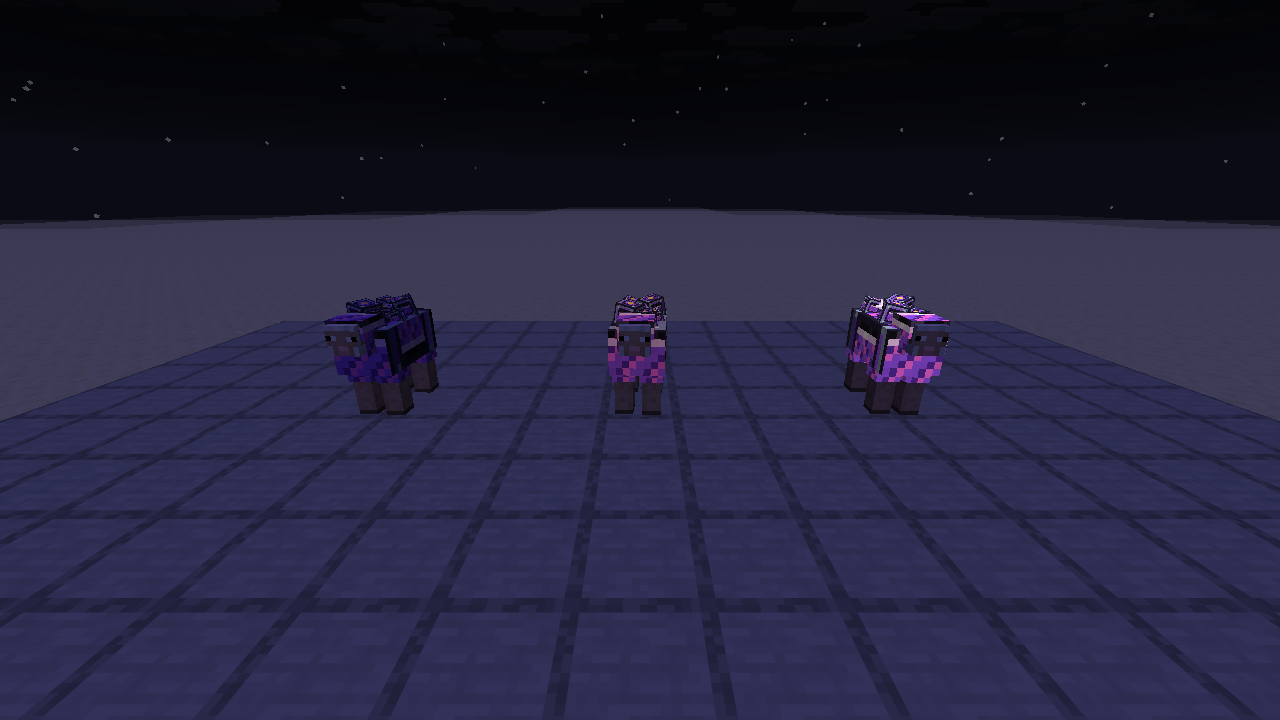
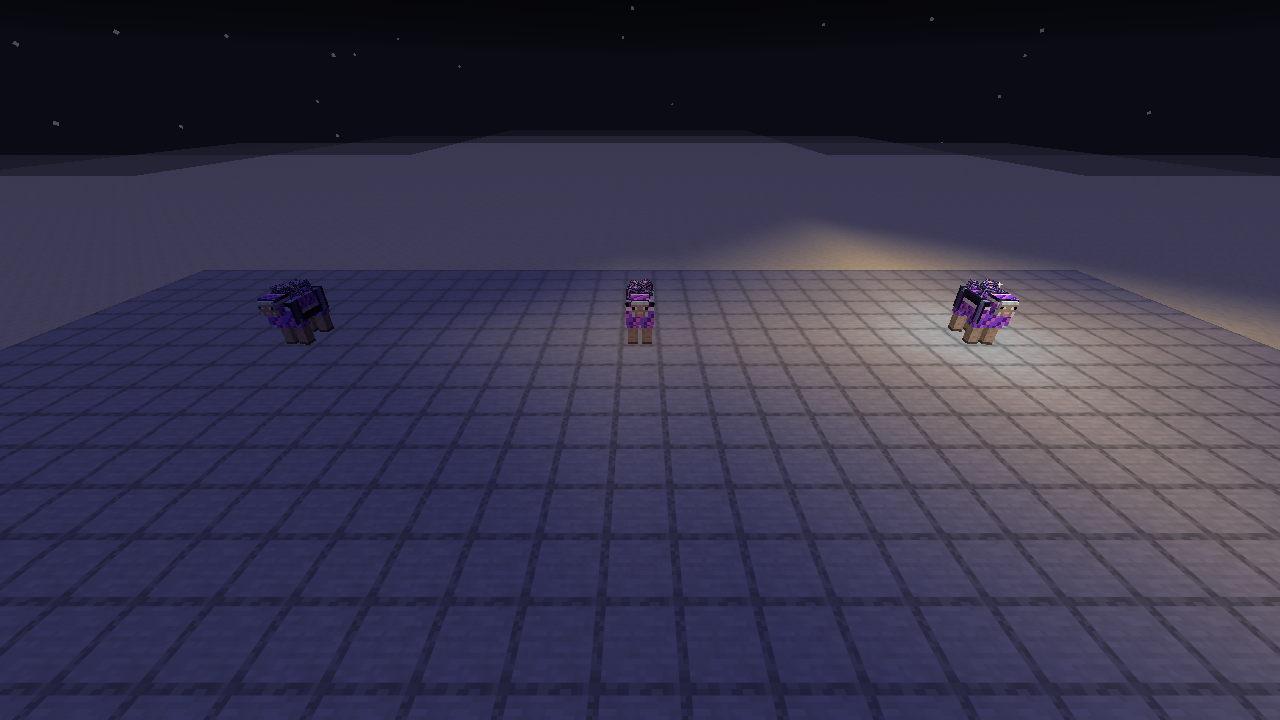
Energy sheep: lights its surroundings like a Glow Ink sheep, as bright as its charge
The invisible sheep glow block gains a level (1-15; the Glow Ink sheep's stays 12). An Energy sheep places one at a
level that follows its charge (15 full, none empty) and updates it as the charge changes; the fleece is still drawn as
brightly. A GameTest checks 15 full, 8 half, none empty. Night scene and docs.

Claude-Session: https://claude.ai/code/session_012iurxobutw9xMP3SqHHLFE

diff --git a/src/main/java/com/jax3/barelyfunctionalcontraptions/sheep/gametest/ModGameTests.java b/src/main/java/com/jax3/barelyfunctionalcontraptions/sheep/gametest/ModGameTests.java
@@ -184,6 +184,7 @@ public final class ModGameTests {
         ECHO_TESTS.put("explosive_sheep_regrow_their_wool_quickly", ModGameTests::explosiveRegrows);
         ECHO_TESTS.put("energy_sheep_drains_cubes_and_charges_machines", ModGameTests::energySheepCharges);
         ECHO_TESTS.put("energy_sheep_does_nothing_sheared", ModGameTests::energySheepSheared);
+        ECHO_TESTS.put("energy_sheep_glows_with_its_charge", ModGameTests::energySheepGlows);
         ECHO_TESTS.put("echo_chamber_power_follows_the_noise", ModGameTests::echoPower);
         ECHO_TESTS.put("echo_chamber_hears_vibrations_but_not_through_wool", ModGameTests::echoHearing);
         ECHO_TESTS.put("echo_chamber_pushes_power_out_of_its_port", ModGameTests::echoPort);
@@ -3266,6 +3267,27 @@ public final class ModGameTests {
             h.assertTrue(near.getEnergyHandler().getAmountAsLong() > 0, "it charged the furnace 5 blocks away");
             h.assertTrue(far.getEnergyHandler().getAmountAsLong() == 0, "not the one 12 blocks away");
             h.assertTrue(other.storage().getAmountAsLong() == 0, "and it never charges a cube");
+        });
+    }
+
+    /** Like a Glow Ink sheep it lights the block it stands in, as brightly as its charge: 15 full, 8 half, none empty. */
+    private static void energySheepGlows(GameTestHelper h) {
+        for (BlockPos p : BlockPos.betweenClosed(new BlockPos(0, 1, 0), new BlockPos(12, 1, 4))) h.setBlock(p, Blocks.STONE);
+        int capacity = com.jax3.barelyfunctionalcontraptions.sheep.entity.EnergySheep.capacity();
+        int[][] cases = {{2, capacity, 15}, {6, capacity / 2, 8}, {10, 0, 0}};
+        for (int[] c : cases) {
+            Sheep sheep = sheepAt(h, new BlockPos(c[0], 2, 2), ResourcefulSheep.id("energy"));
+            com.jax3.barelyfunctionalcontraptions.sheep.entity.EnergySheep.setCharge(sheep, c[1]);
+        }
+        h.succeedWhen(() -> {
+            for (int[] c : cases) {
+                // The light it places in its own block (its neighbours' light spills over, so not the block's brightness).
+                var state = h.getBlockState(new BlockPos(c[0], 2, 2));
+                int level = state.is(ModBlocks.SHEEP_GLOW.get()) ? state.getValue(com.jax3.barelyfunctionalcontraptions.sheep.blocks.SheepGlowBlock.LEVEL) : 0;
+                h.assertTrue(level == c[2], "an Energy sheep holding " + c[1] + " FE lights its block at " + c[2] + ", got " + level);
+            }
+            // And it really is light: the full one's block is at 15.
+            h.assertTrue(h.getLevel().getBrightness(net.minecraft.world.level.LightLayer.BLOCK, h.absolutePos(new BlockPos(2, 2, 2))) == 15, "the full one's block is lit at 15");
         });
     }
 

diff --git a/src/main/java/com/jax3/barelyfunctionalcontraptions/sheep/blocks/SheepGlowBlock.java b/src/main/java/com/jax3/barelyfunctionalcontraptions/sheep/blocks/SheepGlowBlock.java
@@ -17,7 +17,9 @@ import net.minecraft.world.phys.shapes.Shapes;
 import net.minecraft.world.phys.shapes.VoxelShape;
 
 /**
- * The invisible light a glowing sheep leaves in the block it stands in (see {@link SheepAppearance.Feature#GLOWING}).
+ * The invisible light a glowing sheep leaves in the block it stands in (see {@link SheepAppearance.Feature#GLOWING}),
+ * at {@link #LIGHT_LEVEL}; and the light an Energy sheep ({@link SheepAppearance.Feature#CHARGED}) gives off, at a
+ * {@link #LEVEL} that follows its charge.
  *
  * <p>It can't be seen, touched or targeted, drops nothing and is replaced by anything placed there. It checks itself
  * every {@link #CHECK_TICKS} ticks and turns back into air as soon as no glowing sheep is standing in it, so it never
@@ -26,9 +28,23 @@ import net.minecraft.world.phys.shapes.VoxelShape;
 public class SheepGlowBlock extends Block {
     public static final int LIGHT_LEVEL = 12;
     public static final int CHECK_TICKS = 10;
+    /** How bright it is. */
+    public static final net.minecraft.world.level.block.state.properties.IntegerProperty LEVEL =
+            net.minecraft.world.level.block.state.properties.IntegerProperty.create("level", 1, 15);
 
     public SheepGlowBlock(Properties properties) {
         super(properties);
+        registerDefaultState(stateDefinition.any().setValue(LEVEL, LIGHT_LEVEL));
+    }
+
+    @Override
+    protected void createBlockStateDefinition(net.minecraft.world.level.block.state.StateDefinition.Builder<Block, BlockState> builder) {
+        builder.add(LEVEL);
+    }
+
+    /** The light for a sheep at {@code level}. */
+    public BlockState at(int level) {
+        return defaultBlockState().setValue(LEVEL, Math.max(1, Math.min(15, level)));
     }
 
     @Override
@@ -39,7 +55,9 @@ public class SheepGlowBlock extends Block {
     @Override
     protected void tick(BlockState state, ServerLevel level, BlockPos pos, RandomSource random) {
         boolean lit = !level.getEntitiesOfClass(Sheep.class, new AABB(pos),
-                sheep -> sheep.blockPosition().equals(pos) && SheepFeatureEvents.has(sheep, SheepAppearance.Feature.GLOWING)).isEmpty();
+                sheep -> sheep.blockPosition().equals(pos) && (SheepFeatureEvents.has(sheep, SheepAppearance.Feature.GLOWING)
+                        || (SheepFeatureEvents.has(sheep, SheepAppearance.Feature.CHARGED)
+                                && com.jax3.barelyfunctionalcontraptions.sheep.entity.EnergySheep.charge(sheep) > 0))).isEmpty();
         if (lit) level.scheduleTick(pos, this, CHECK_TICKS);
         else level.setBlock(pos, Blocks.AIR.defaultBlockState(), Block.UPDATE_ALL);
     }

diff --git a/src/main/java/com/jax3/barelyfunctionalcontraptions/sheep/client/DevScreenshotHarness.java b/src/main/java/com/jax3/barelyfunctionalcontraptions/sheep/client/DevScreenshotHarness.java
@@ -2346,15 +2346,15 @@ public final class DevScreenshotHarness {
                 for (String c : new String[]{"time set midnight", "weather clear", "gamerule send_command_feedback false", "gamemode spectator @a"}) {
                     server.getCommands().performPrefixedCommand(server.createCommandSourceStack(), c);
                 }
-                for (BlockPos p : BlockPos.betweenClosed(origin.offset(-8, 0, -10), origin.offset(8, 4, 2))) level.setBlock(p, Blocks.AIR.defaultBlockState(), 2);
-                for (BlockPos p : BlockPos.betweenClosed(origin.offset(-8, -1, -10), origin.offset(8, -1, 2))) level.setBlock(p, Blocks.SMOOTH_STONE.defaultBlockState(), 2);
+                for (BlockPos p : BlockPos.betweenClosed(origin.offset(-16, 0, -14), origin.offset(16, 4, 2))) level.setBlock(p, Blocks.AIR.defaultBlockState(), 2);
+                for (BlockPos p : BlockPos.betweenClosed(origin.offset(-16, -1, -14), origin.offset(16, -1, 2))) level.setBlock(p, Blocks.SMOOTH_STONE.defaultBlockState(), 2);
                 var energy = ResourcefulSheep.id("energy");
                 int uses = com.jax3.barelyfunctionalcontraptions.sheep.resource.SheepResourceRegistry.server().byId(energy).orElseThrow().effectiveInfusionUses();
                 int capacity = com.jax3.barelyfunctionalcontraptions.sheep.entity.EnergySheep.capacity();
                 float[] charges = {0F, 0.5F, 1F};
                 for (int i = 0; i < 3; i++) {
                     var sheep = Vanilla.SHEEP.create(level, net.minecraft.world.entity.EntitySpawnReason.COMMAND);
-                    sheep.snapTo(origin.getX() - 3.0 + i * 3.5, origin.getY(), origin.getZ() - 5.5, 90, 0);
+                    sheep.snapTo(origin.getX() - 8.5 + i * 9.0, origin.getY(), origin.getZ() - 8.5, 90, 0);
                     sheep.setNoAi(true);
                     level.addFreshEntity(sheep);
                     com.jax3.barelyfunctionalcontraptions.sheep.entity.SheepInfusionEvents.setInfusion(sheep,
@@ -2363,7 +2363,7 @@ public final class DevScreenshotHarness {
                 }
             });
             case 62 -> setHudHidden(mc, true);
-            case 64 -> command(server, String.format(java.util.Locale.ROOT, "tp @a %.1f %.1f %.1f 180 20", origin.getX() + 0.5, origin.getY() + 1.2, origin.getZ() + 0.5));
+            case 64 -> command(server, String.format(java.util.Locale.ROOT, "tp @a %.1f %.1f %.1f 180 30", origin.getX() + 0.5, origin.getY() + 4.0, origin.getZ() + 2.5));
             case 110 -> shot(mc, "118_energy_sheep_glow");
             case 114 -> mc.stop();
             default -> {}

diff --git a/src/main/java/com/jax3/barelyfunctionalcontraptions/sheep/entity/SheepFeatureEvents.java b/src/main/java/com/jax3/barelyfunctionalcontraptions/sheep/entity/SheepFeatureEvents.java
@@ -92,6 +92,11 @@ public final class SheepFeatureEvents {
         Level level = sheep.level();
         if (!level.isClientSide()) {
             if (appearance.get().has(Feature.GLOWING)) placeGlow(level, sheep.blockPosition());
+            // An Energy sheep lights its surroundings as brightly as its charge: 15 full, fading to nothing empty.
+            if (appearance.get().has(Feature.CHARGED)) {
+                int charge = EnergySheep.charge(sheep), capacity = EnergySheep.capacity();
+                if (charge > 0 && capacity > 0) placeGlow(level, sheep.blockPosition(), (int) Math.ceil(15.0 * charge / capacity));
+            }
             // Gills: it never runs out of air.
             if (appearance.get().has(Feature.FINS)) sheep.setAirSupply(sheep.getMaxAirSupply());
             return;
@@ -115,9 +120,17 @@ public final class SheepFeatureEvents {
 
     /** Lights the block the sheep stands in, unless something other than air (or an older glow) is there. */
     public static void placeGlow(Level level, BlockPos pos) {
+        placeGlow(level, pos, com.jax3.barelyfunctionalcontraptions.sheep.blocks.SheepGlowBlock.LIGHT_LEVEL);
+    }
+
+    /** As {@link #placeGlow(Level, BlockPos)}, at light {@code brightness} (1-15); a glow already there is set to it. */
+    public static void placeGlow(Level level, BlockPos pos, int brightness) {
         BlockState there = level.getBlockState(pos);
-        if (there.isAir() && level.getFluidState(pos).isEmpty()) {
-            level.setBlock(pos, ModBlocks.SHEEP_GLOW.get().defaultBlockState(), net.minecraft.world.level.block.Block.UPDATE_ALL);
+        BlockState glow = ModBlocks.SHEEP_GLOW.get().at(brightness);
+        if (there.is(ModBlocks.SHEEP_GLOW.get())) {
+            if (there != glow) level.setBlock(pos, glow, net.minecraft.world.level.block.Block.UPDATE_ALL);
+        } else if (there.isAir() && level.getFluidState(pos).isEmpty()) {
+            level.setBlock(pos, glow, net.minecraft.world.level.block.Block.UPDATE_ALL);
         }
     }
 

diff --git a/src/main/java/com/jax3/barelyfunctionalcontraptions/sheep/registry/ModBlocks.java b/src/main/java/com/jax3/barelyfunctionalcontraptions/sheep/registry/ModBlocks.java
@@ -292,7 +292,7 @@ public final class ModBlocks {
                     .instabreak()
                     .pushReaction(com.jax3.barelyfunctionalcontraptions.compat.Mc.PUSH_BREAKS)
                     .mapColor(MapColor.NONE)
-                    .lightLevel(state -> com.jax3.barelyfunctionalcontraptions.sheep.blocks.SheepGlowBlock.LIGHT_LEVEL));
+                    .lightLevel(state -> state.getValue(com.jax3.barelyfunctionalcontraptions.sheep.blocks.SheepGlowBlock.LEVEL)));
 
     private ModBlocks() {}
 }

diff --git a/docs/REFERENCE.md b/docs/REFERENCE.md
@@ -801,14 +801,14 @@ A themed sheep infused with a **Hume Energy Cube** (2 Lightning Rods round it at
 - **Drains:** every half second it draws up to **2,000 FE a tick** (`drainPerTick`) from the Hume Energy Cubes within **3 blocks** of it (`drainRadius`) into its fleece, which holds **100,000 FE** (`capacity`).
 - **Charges:** it shares up to **2,000 FE a tick** (`chargePerTick`) between everything within **8 blocks** (`chargeRadius`): every block that takes FE (machines, generators' buffers; not Hume Energy Cubes or cables) and every powered item (tools, armour, anything that holds FE) in nearby players' inventories. Each gets a fair share, and sparks arc to what it charges.
 - Only a grown sheep with its fleece on does either; sheared, it keeps its charge until its wool grows back.
-- **It glows with its charge:** its fleece is lit as brightly as the charge it holds, from as dark as its surroundings when empty to full bright when full, and it sparks more often the fuller it is.
+- **It glows with its charge:** like a Glow Ink sheep it lights the block it stands in, at a light level that follows its charge (15 when full, fading as it empties, none when empty), and its fleece is drawn as brightly. It sparks more often the fuller it is.
 - **Jade** shows its charge. Its wool separates into Redstone and Copper, with a chance of Glowstone. **Advancement:** *Static Cling*.
 - **Config:** `[energy_sheep]`: `capacity` (100,000), `drainRadius` (3), `drainPerTick` (2,000), `chargeRadius` (8), `chargePerTick` (2,000).
 
 | An Energy sheep beside its cube bank | Jade |
 |---|---|
 | ![An Energy sheep in a fleece of Hume Energy Cube, little cubes on its back, beside a bank of Hume Energy Cubes](screenshots/118_energy_sheep.png) | ![Jade on an Energy sheep: Infused Energy, 100 shearings left, Charge 98,000 / 100,000 FE](screenshots/118_energy_sheep_jade.png) |
-| ![Three Energy sheep at night, empty, half charged and full: dark, glowing softly and lit up bright](screenshots/118_energy_sheep_glow.png) | |
+| ![Three Energy sheep at night, empty, half charged and full: the empty one dark, the half-charged one casting a soft pool of light, the full one lighting a wide circle of ground](screenshots/118_energy_sheep_glow.png) | |
 
 ### Implosion Chamber
 A riveted blue-steel blast vessel with a round blast door on its front. It **cracks Cobblestone into Gravel, and Gravel into Sand**, with the blasts of **Explosive sheep** (infused with TNT) in the pen round it.

diff --git a/README.md b/README.md
@@ -109,7 +109,7 @@ A late-game 2x2 generator three blocks tall whose field can't make up its mind: 
 
 ### Energy Sheep
 
-A wireless charger on legs. Infuse a sheep with a Hume Energy Cube (2 Lightning Rods at the altar) and it wears a fleece of cube, crackling with sparks. Pen it within 3 blocks of a Hume Energy Cube bank: it drains up to 2,000 FE/t into its 100,000 FE fleece and shares it out, wirelessly, to every machine and every powered tool or armour piece in nearby players' inventories within 8 blocks. Its fleece glows brighter the more charge it holds (dark when empty, lit up when full), sparks arc to whatever it charges, and Jade shows how much it holds.
+A wireless charger on legs. Infuse a sheep with a Hume Energy Cube (2 Lightning Rods at the altar) and it wears a fleece of cube, crackling with sparks. Pen it within 3 blocks of a Hume Energy Cube bank: it drains up to 2,000 FE/t into its 100,000 FE fleece and shares it out, wirelessly, to every machine and every powered tool or armour piece in nearby players' inventories within 8 blocks. Like a Glow Ink sheep it lights up the ground round it, as brightly as the charge it holds (dark when empty, light level 15 when full), sparks arc to whatever it charges, and Jade shows how much it holds.
 
 ![An Energy sheep in a fleece of Hume Energy Cube beside a cube bank](docs/screenshots/118_energy_sheep.png)
 

diff --git a/CHANGELOG.md b/CHANGELOG.md
@@ -22,7 +22,7 @@ For Minecraft 26.3, 26.2 and 26.1 on NeoForge.
 - **Hume Field Generator (late game):** makes a random 200–1,200 FE/t each second, with no buffer: what its neighbours
   can't take is lost.
 - **Energy sheep:** infused with a Hume Energy Cube. Drains cubes within 3 blocks and charges machines and players'
-  powered items within 8, wirelessly. Its fleece glows brighter the more charge it holds.
+  powered items within 8, wirelessly. It lights up its surroundings like a Glow Ink sheep, as brightly as its charge.
 - **Machine Status Panel:** a wall screen (up to 3x3) showing up to 36 linked machines' status, with a comparator for
   problems.
 - **Upgrade cards:** Speed, Efficiency, Capacity, Range, Yield and Muffler, in two slots on the processing machines.
